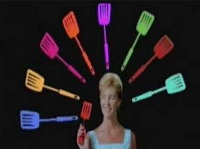
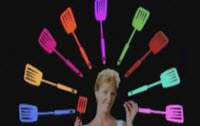
added video

diff --git a/Module5/webroot/spatcity.css b/Module5/webroot/spatcity.css
@@ -4,6 +4,29 @@ body {
 
 header,footer {
 	background-color: #709090;	
+	color: #d9d9d9;
+}
+
+footer {
+	text-align: center;
+}
+
+footer p {
+	margin-top: 0px;
+	margin-bottom: 0px;
+	padding-top: 4px;
+	padding-bottom:4px;
+}
+
+header img {
+	padding-left:10px;
+}
+
+#statement {	
+	font-size: 2em;
+	float:right;
+	width:250px;
+	padding-right:20px;
 }
 
 nav, section, aside {
@@ -23,10 +46,16 @@ nav, section, aside {
 	
 }
 
+section {
+	padding: 10px;
+}
+
 section#products {
 	display: table-cell;	
 	width:225px;
 }
+
+
 
 section#blog {	
 	display: table-cell;
@@ -35,4 +64,7 @@ section#blog {
 aside {
 	display: table-cell;
 	width: 250px;	
+	padding: 10px;
+	text-align: center;
+	vertical-align: middle;
 }

diff --git a/Module5/webroot/index.html b/Module5/webroot/index.html
@@ -8,7 +8,9 @@
     <body>        
     
     <header><img src="images/spatlogo.jpg">
-    <div style="float:right;width:150px;"><p>We sell spatulas ... and that's all!</p></div>
+    	<div id="statement">
+    		<p>We sell spatulas ... and that's all!</p>
+    	</div>
     </header>
     
     <nav>HOME BLOG PRODUCTS HOLIDAYS</nav>
@@ -32,6 +34,14 @@
 		    </section>		    
 		    
 		    <section id="blog">
+		    
+		    <article>
+		    <header>
+		        <h1>Our First TV Commercial</h1>
+		        <time datetime="1989-12-15">1/10/1989</time>
+		    </header>
+		    <video width="400" controls><source src="video/spatula.mp4"></video>
+		    </article>
 		    
 		    <article>
 		    <header>
